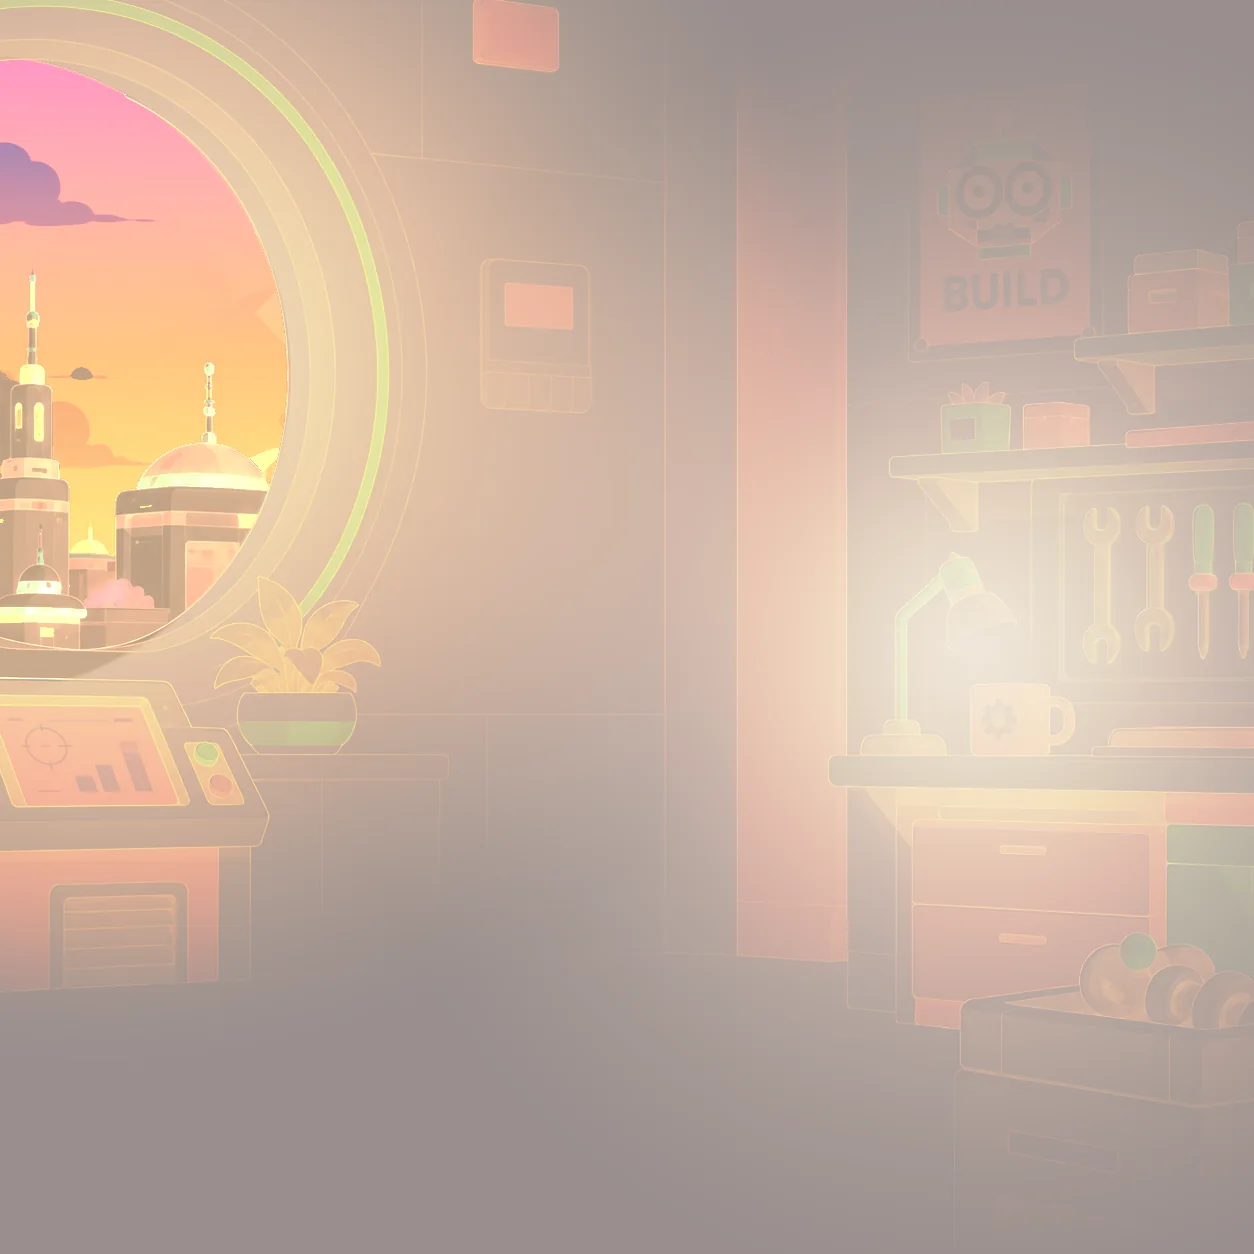
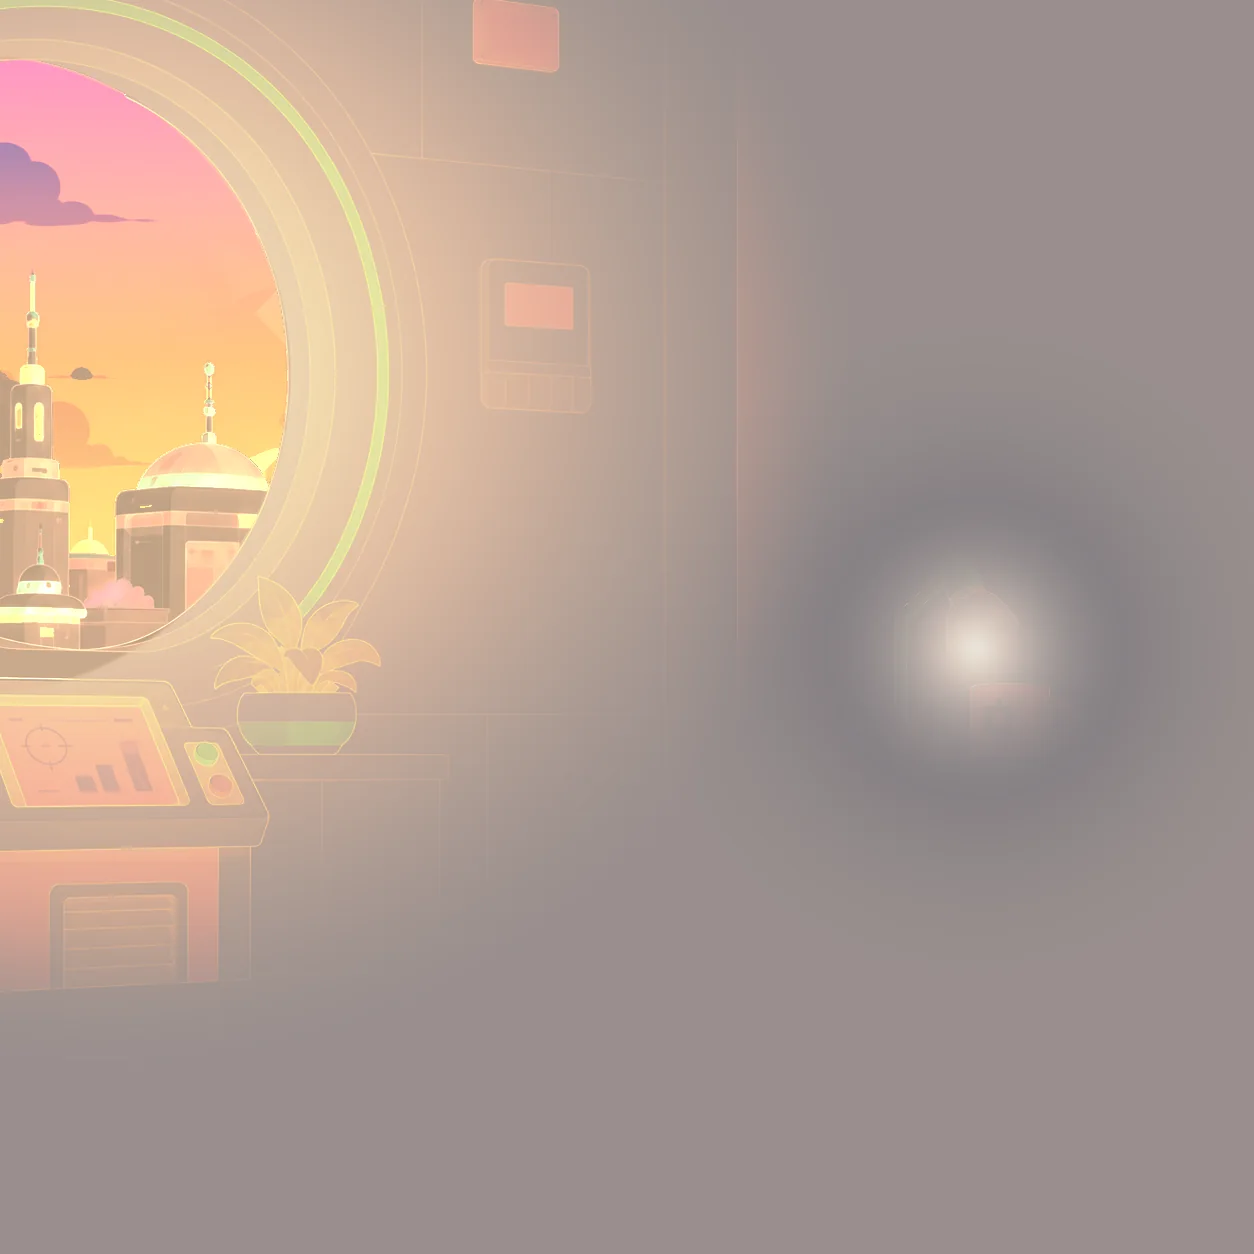
白天和黃昏關燈不再有黑色光暈,房間維持原樣
上一版為了讓「白天關燈看得出來」,把檯燈的散射與暖色偏移補了上去 —— 結果矯枉過正:
房間亮的時候關掉一盞桌燈,不會讓整個房間暗一階。畫面上多出一團放射狀的黑色光暈,
離燈頭 300 px 還在暗 17.5 階。那不是關燈,那是憑空多出來的陰影。

檯燈的「開燈 − 關燈」抽成 lamp_share(),多一個 off_r:影響範圍的硬上限。
白天與黃昏都給上限,夜裡才拿掉 —— 那時候它真的是照亮整個房間的主光。

離燈頭(canvas px)      60   120   180   240   300   500
白天                  32     4     0     0     0     0
黃昏                  38     7     0     0     0     0
夜晚                 115    94    60    47    37    13

瀏覽器上按區域實測「開燈 → 關燈」:

              窗/控制台   地板   右上牆   檯燈那一小塊
白天             -0.1   -0.3    -0.0          -21
黃昏             +0.3   +0.3    +0.0          -29
夜晚             -0.7   -7.5   -14.9         -104

白天與黃昏房間完全沒動,就是燈滅掉而已;夜裡整個房間才真的暗下來。
分級圖也跟著變小:三張關燈圖從 57KB 降到 33KB。

驗收:7 個頁面/視窗組合 overflowX = 0、零錯誤、零失敗請求;RMSE 2.83,
三個時段的關燈層還原誤差都是 0.00。

diff --git a/tools/gen-allen-room-assets.py b/tools/gen-allen-room-assets.py
@@ -114,10 +114,12 @@ CLOUD_SOFT = 6          # 雲的柔邊最多往外收這麼多 px
 # 檯燈的光是個以燈頭為中心的衰減場,關燈就是把這份暖光減掉。
 # 這是打光運算不是重畫,像素全部來自原圖。
 LAMP = {'x': 975, 'y': 648, 'r': 340, 'amount': 0.30, 'warm': (1.0, 0.80, 0.52)}
-# 白天關燈也要看得出來。第一版白天只扣掉「直射」那一份,量出來檯燈那一區只暗 17.9 階
-# (夜裡是 72.2),等於戳了沒反應。物理上白天的檯燈確實不明顯,但這是互動 —— 戳了
-# 要有回應比絕對寫實重要。所以白天也用和夜晚同一套三份拆解,只是份量小得多。
-DAY_LAMP = {'lamp': 1.0, 'scatter': 0.19, 'warm': (16, 8, 0), 'warm_r': 1.9}
+# 白天的檯燈:只有燈下那一小圈。房間亮的時候關掉一盞桌燈,不會讓整個房間暗一階 ——
+# 整片放射狀地暗下去看起來不是「關燈」,是憑空多出一團黑色光暈。所以 off_r 把
+# 影響範圍收在燈下(0.42 × 340 ≈ 143 px,換算到卡片約 34 px),看得見的是燈滅了,
+# 不是房間變暗了。夜裡沒有這個上限 —— 那時候它真的是主光。
+DAY_LAMP = {'lamp': 1.0, 'scatter': 0.30, 'warm': (0, 0, 0), 'warm_r': 0.55,
+            'off_r': 0.42}
 # 窗光灑進室內的範圍(圓窗中心往房間裡放射)。夜裡是城市的冷光,黃昏是夕陽的金色。
 WIN = {'x': 96, 'y': 372, 'rx': 760, 'ry': 700}
 
@@ -140,7 +142,7 @@ TIMES = {
         'neon_red': (255, 150, 84), 'neon_red_amt': 0.42, 'bloom': 0.10,
         'tint': (0.86, 0.805, 0.795), 'amb': 0.70,
         'spill': (104, 46, -6), 'lamp': 1.24,
-        'scatter': 0.30, 'warm': (26, 13, 1), 'warm_r': 1.9,
+        'scatter': 0.32, 'warm': (10, 5, 0), 'warm_r': 0.58, 'off_r': 0.45,
     },
     'night': {
         'sky': [(40, (11, 18, 46)), (240, (14, 24, 58)), (420, (20, 32, 72)),
@@ -156,7 +158,7 @@ TIMES = {
         'spill': (12, 22, 48), 'lamp': 1.45, 'scatter': 0.72,
         # 檯燈的暖光在夜裡會整片散開(牆面、天花板都在幫忙反射),
         # 只給燈頭那一小圈的話房間會又黑又冷。這是加法,半徑比燈本身大得多。
-        'warm': (54, 30, 5), 'warm_r': 1.95,
+        'warm': (54, 30, 5), 'warm_r': 1.95, 'off_r': None,
     },
 }
 GRADE_TIMES = ['day'] + list(TIMES)
@@ -552,6 +554,23 @@ def lamp_light(img, G):
     return img * LAMP['amount'] * G['fall'][..., None] * warm
 
 
+def lamp_share(src, A, L, G, cfg, tint=1.0):
+    """檯燈開著時多出來的那一份:直射 + 打到牆面再散回來的散射 + 暖色偏移。
+    三份都跟著檯燈一起熄,所以它就是「開燈 − 關燈」。
+
+    off_r 是影響範圍的硬上限,白天與黃昏一定要有。房間亮的時候關掉一盞桌燈,
+    不會讓整個房間暗一階;沒有這個上限的話,關燈會在畫面上留下一團放射狀的
+    黑色光暈 —— 那不是關燈,那是憑空多出來的陰影。夜裡才拿掉上限,因為那時候
+    它真的是照亮整個房間的主光。"""
+    glow = np.clip(1.0 - G['ld'] / cfg['warm_r'], 0, 1) ** 1.4
+    lit = (L * cfg['lamp']
+           + A * tint * (glow * cfg['scatter'])[..., None]
+           + glow[..., None] * np.array(cfg['warm'], float)[None, None, :])
+    if cfg.get('off_r'):
+        lit = lit * (np.clip(1.0 - G['ld'] / cfg['off_r'], 0, 1) ** 1.2)[..., None]
+    return lit
+
+
 def time_target(src, G, key):
     """這個時段「靜止合成」該有的樣子。回傳 (檯燈亮著, 檯燈關著)。"""
     L = lamp_light(src, G)
@@ -559,10 +578,7 @@ def time_target(src, G, key):
     if key == 'day':
         # 白天 + 開燈就是原圖本身 —— 這條不變式不能破(白天的分級層完全不存在,
         # 所以「開燈」那一格必須逐像素等於原圖)。關燈就是把檯燈那三份減掉。
-        glow = np.clip(1.0 - G['ld'] / DAY_LAMP['warm_r'], 0, 1) ** 1.4
-        lit = (L * DAY_LAMP['lamp']
-               + A * (glow * DAY_LAMP['scatter'])[..., None]
-               + glow[..., None] * np.array(DAY_LAMP['warm'])[None, None, :])
+        lit = lamp_share(src, A, L, G, DAY_LAMP)
         return src, np.clip(src - (1 - G['w_out'][..., None]) * lit, 0, 255)
     cfg = TIMES[key]
     r, g, b = src[:, :, 0], src[:, :, 1], src[:, :, 2]
@@ -611,10 +627,7 @@ def time_target(src, G, key):
     #   scatter 打到牆面、天花板再散回來的(用表面自己的顏色算,所以是 A × tint × 係數)
     #   warm    暖色偏移。少了這一份,夜裡整間都是冷藍,檯燈只是一個孤立的亮點
     # 三份都跟著檯燈一起熄,所以只加在 in_on。
-    glow = np.clip(1.0 - G['ld'] / cfg['warm_r'], 0, 1) ** 1.4
-    lit = (L * cfg['lamp']
-           + A * tint * (glow * cfg['scatter'])[..., None]
-           + (glow[..., None] * np.array(cfg['warm'])[None, None, :]))
+    lit = lamp_share(src, A, L, G, cfg, tint)
     # 室內任何一點都不可以比白天的原圖亮 —— 夜裡不會比白天亮,這是物理;
     # 但更要緊的是數學:一旦某個像素在「開燈」時被推到滿格,那裡的 screen 值就是 1,
     # 而 screen(任何東西, 1) 恆等於 1,關燈那一層再怎麼乘都壓不下來(檯燈那一圈

diff --git a/README.md b/README.md
@@ -65,11 +65,12 @@
   東西會變成黑洞、原稿的明暗關係被壓平,窗外就會粗糙沒有形體。檯燈與螢幕是自己會發光
   的東西,所以它們那一層疊在分級**之上** ——
   夜裡它們不該跟著環境一起暗,反而該變成主角。關燈也是分級圖(每個時段一張),
-  所以夜裡關檯燈的落差比白天大得多,而且元件與 Allen 會一起暗下來:
-  量出來是 白天暗 41 階 → 黃昏 50 → 夜晚 72。白天也算了檯燈的散射與暖色偏移 ——
-  只扣直射的話白天只暗 18 階,戳下去等於沒反應。
+  所以夜裡關檯燈的落差比白天大得多,而且元件與 Allen 會一起暗下來。
+  **關燈的影響範圍會跟著時段收**:白天與黃昏只有燈下那一小圈(離燈頭 180px 之外
+  完全為零,房間的亮度變化在 ±0.3 階以內)—— 房間亮的時候關掉一盞桌燈,不會讓整個房間暗一階,
+  那看起來不是關燈,是憑空多出一團黑色光暈。夜裡才拿掉上限,因為它真的是主光。
 
-  重量:白天 + 開燈是原圖本身,**零額外請求**;黃昏 47KB、夜晚 48KB、三張關燈圖共 57KB,
+  重量:白天 + 開燈是原圖本身,**零額外請求**;黃昏 37KB、夜晚 48KB、三張關燈圖共 33KB,
   全部用到才載。舊的 `stage-off.webp`(91KB)已經被關燈分級圖取代。
   reduced-motion 的靜態卡也吃同一份天色(不能動不等於永遠是白天),但它沒有切換。
 
